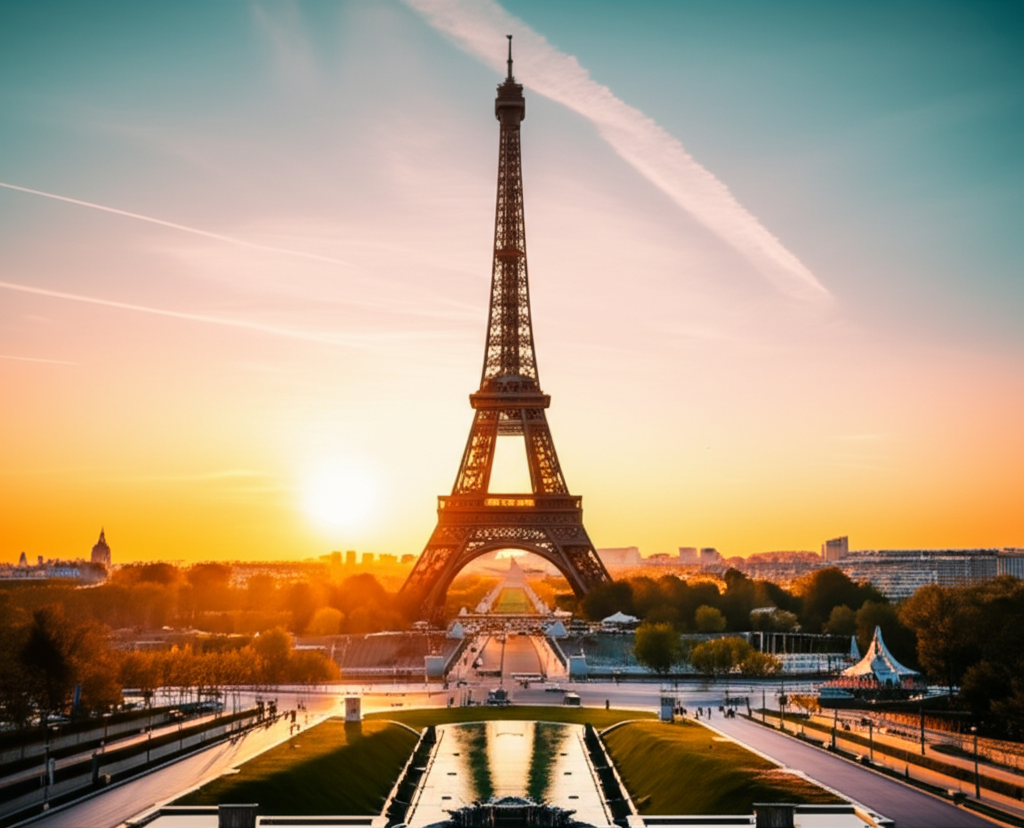
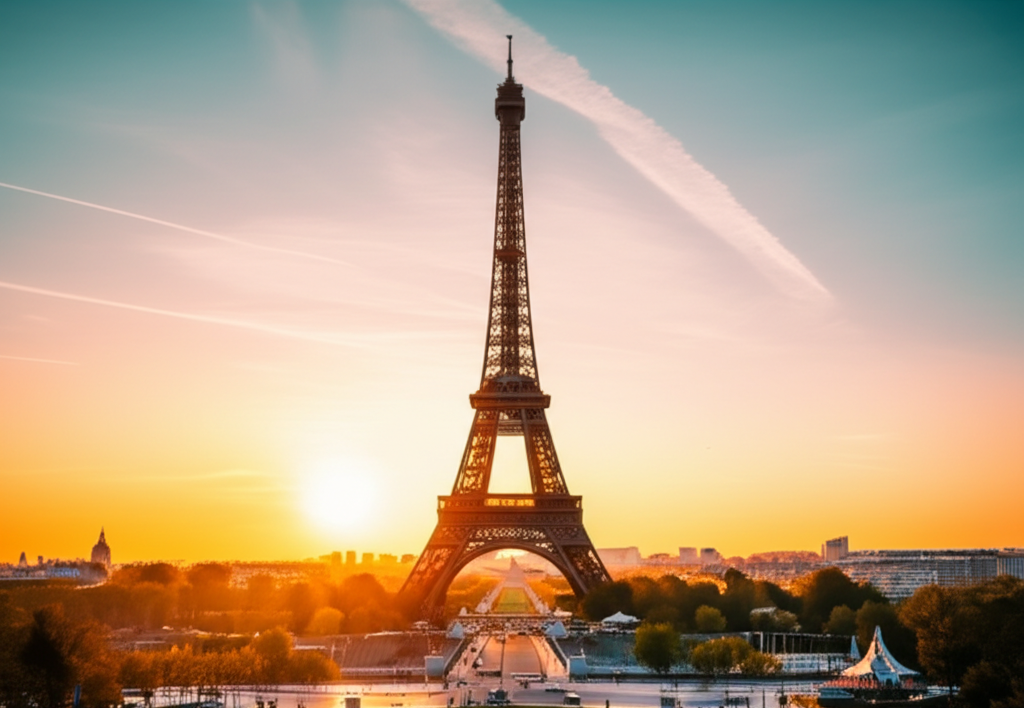
Update the landmark images

diff --git a/components/country-landmarks.tsx b/components/country-landmarks.tsx
@@ -1,7 +1,6 @@
 import { Card } from "@/components/ui/card";
 import { Button } from "@/components/ui/button";
 import { Badge } from "@/components/ui/badge";
-import { OptimizedImage } from "@/components/ui/optimized-image";
 import { MapPin, ExternalLink } from "lucide-react";
 import { LandmarkModal } from "@/components/landmark-modal";
 import type { Country } from "@/lib/types";
@@ -32,12 +31,11 @@ export function CountryLandmarks({ country }: CountryLandmarksProps) {
           >
             <Card className="landmark-card">
               <div className="landmark-image">
-                <OptimizedImage
+                <img
                   src={landmark.imagePath || "/images/placeholder.svg"}
                   alt={landmark.name}
-                  fill
-                  className="object-cover"
-                  sizes="(max-width: 768px) 100vw, (max-width: 1200px) 50vw, 33vw"
+                  className="contain-cover w-full h-full rounded-lg"
+                  loading="lazy"
                 />
               </div>
               <div className="landmark-content">
